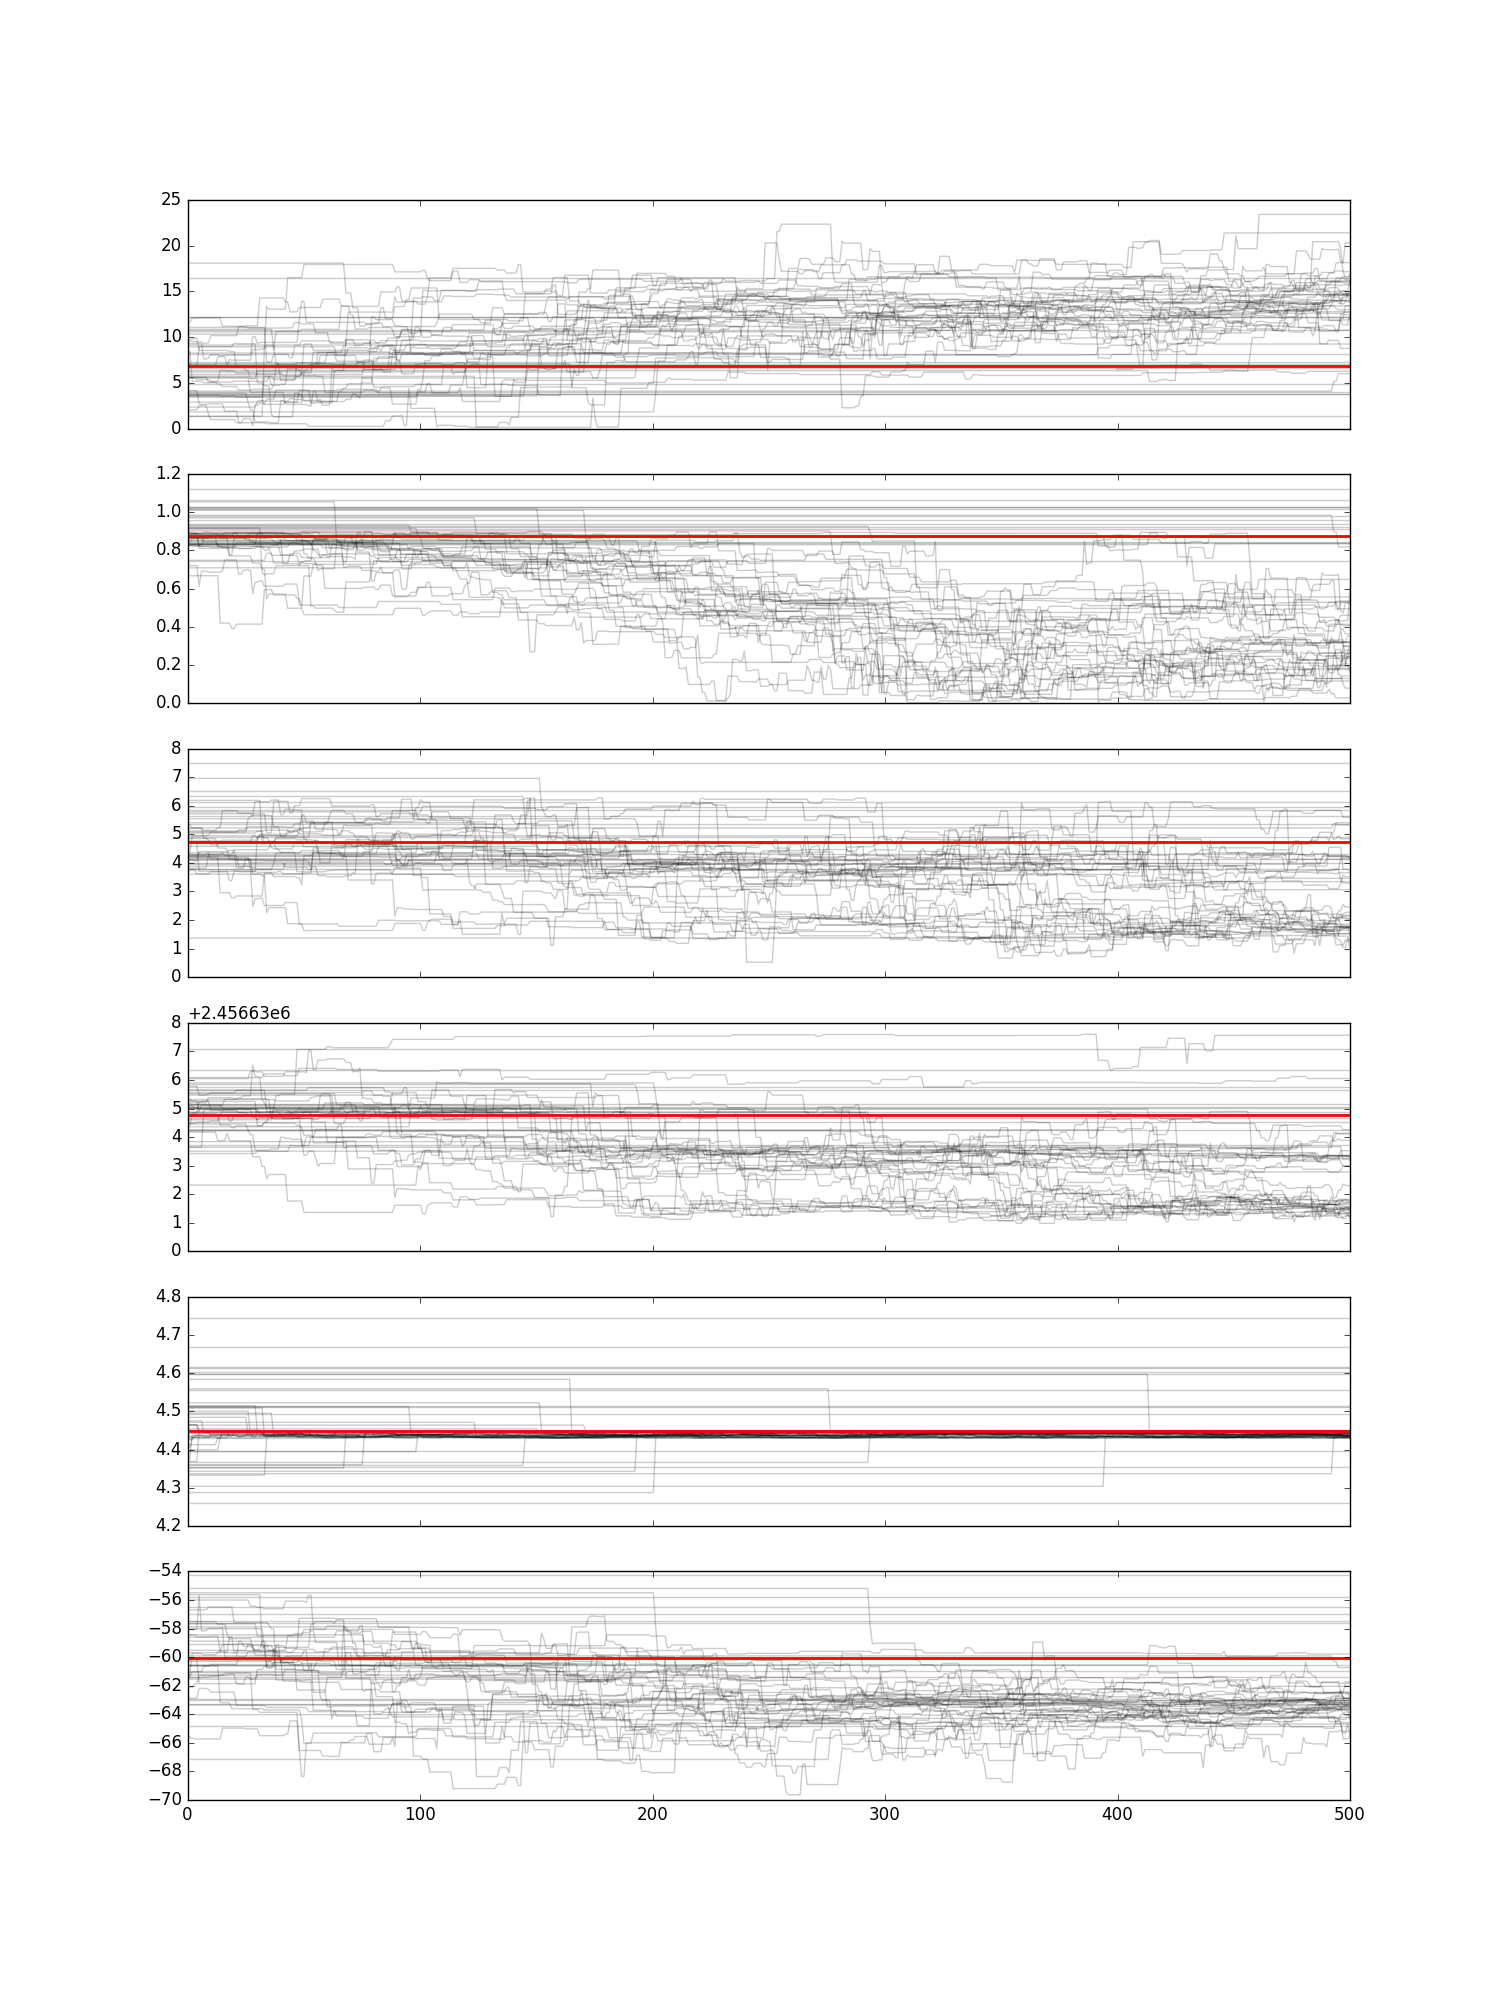
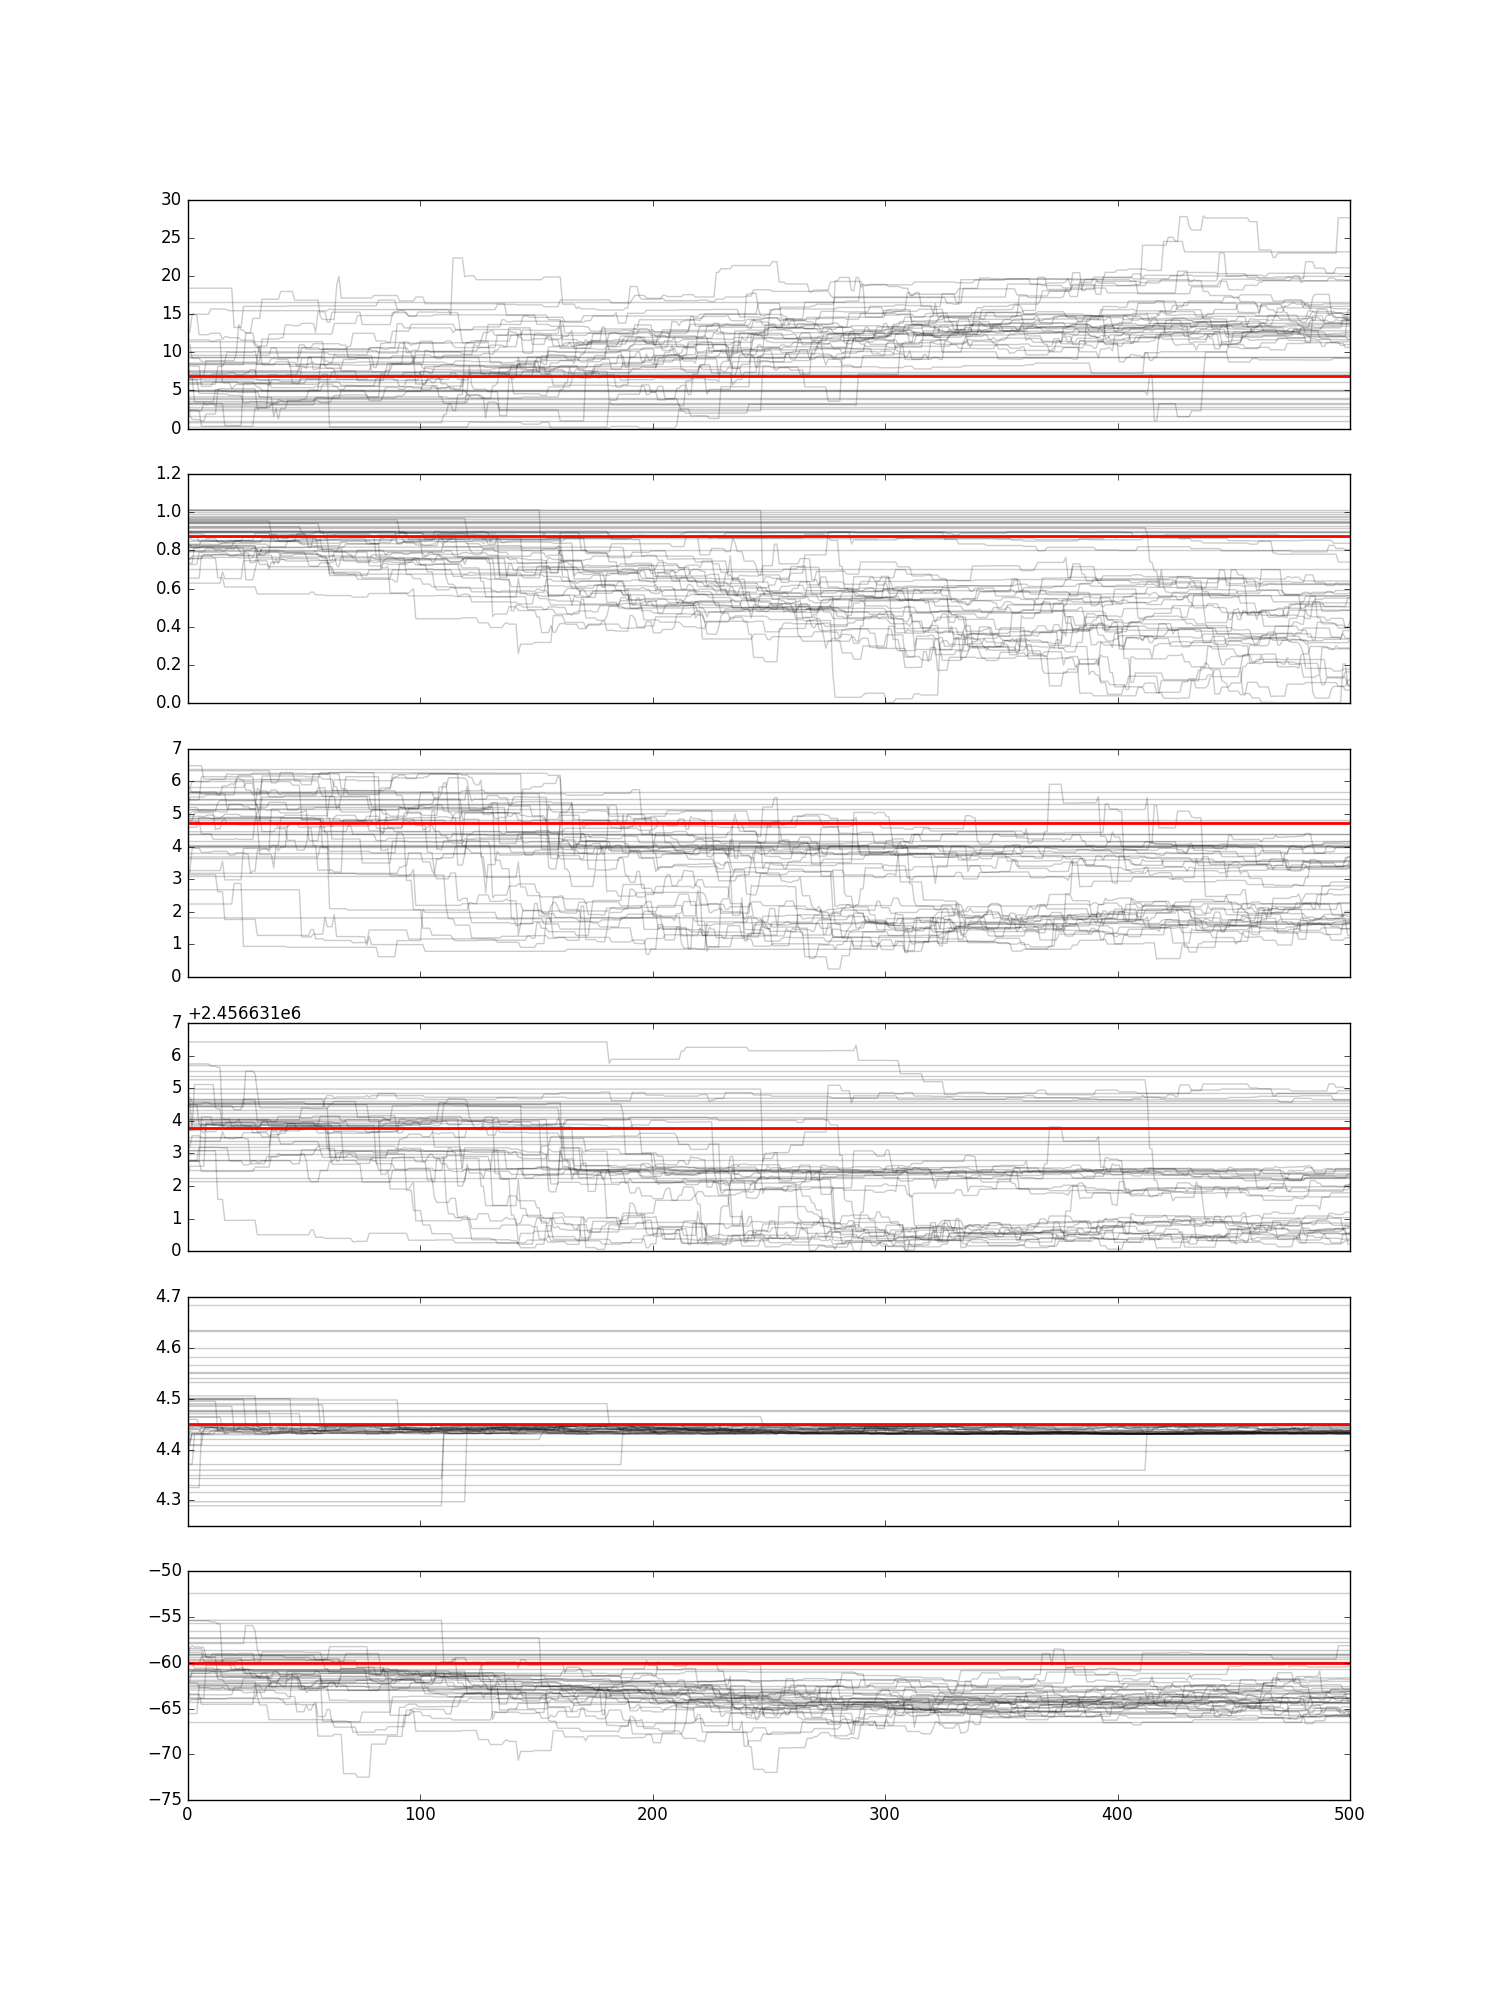
alteredRV fnctns moved inside initialGuess fnctns
line importing alteredRV or alteredNoERV from functions.py can be deleted from all code using up-to-date functions.py

alteredRV functions were only called by other functions

diff --git a/Summer Progress Summary.py b/Summer Progress Summary.py
@@ -1,3 +1,16 @@
+
+# coding: utf-8
+
+# # Summary of Progress in Searching for Orbital Parameters ($K,\,e,\,\omega,\,T,\,P,\,\gamma$) from Radial Velocities
+# 
+# 
+# ## Finding a mass ratio and constraining the period.
+# 
+# 
+# First, after the import and definition of a few packages, functions, and variables, the mass ratio is found. Periodograms and data windows are then calculated, and plots are created to aid in interpretation. DQ Tau is a 'well behaved' system with many visits, and shows a clear peak at a period of about 15.8 days, even after the subtraction of the values of the data window. The data appear periodic when phased to this period, and the mass ratio appears fairly well defined.
+
+# In[11]:
+
 #import-libraries-and-data---------------------------------------------------------------------------------------#
 import time
 import emcee
@@ -6,7 +19,7 @@ import numpy as np
 import functions as f
 from scipy import stats
 from matplotlib import pyplot as plt
-filename     = 'Systems/2M03450783+3102335/4586_2M03450783+3102335_rvs.tbl'
+filename     = 'Systems/DQ Tau/DQ Tau.tbl'
 system       = np.genfromtxt(filename, skip_header=1, usecols=(0, 1, 2))
 
 #define-variables------------------------------------------------------------------------------------------------#
@@ -14,8 +27,8 @@ system       = np.genfromtxt(filename, skip_header=1, usecols=(0, 1, 2))
 JD, RVp, RVs = [datum[0] for datum in system], [datum[1] for datum in system], [datum[2] for datum in system]
 JDp, JDs     = JD, JD
 samples      = 1000
-max_period   = 9
-power_cutoff = 0.7
+max_period   = 20
+power_cutoff = 0.25
 ndim, nwalkers, nsteps = 6, 50, 500
 
 #define-functions------------------------------------------------------------------------------------------------#
@@ -34,20 +47,20 @@ initialGuessNoE= f.initialGuessNoE
 
 #now-do-things!--------------------------------------------------------------------------------------------------#
 
-#plot Wilkinson plot (mass ratio)
+#Secondary v Primary plot (mass ratio)
 mass_ratio, intercept, r_squared, standard_error, slope_error = massRatio(RVs,RVp, system)
 fig = plt.figure(figsize=(5,5))
 ax = plt.subplot(111)
 ax.plot(RVs, RVp, 'k.')
+ax.set_title('Correlation of Secondary and Primary RVs')
 x, y = np.array([np.nanmin(RVs), np.nanmax(RVs)]),-mass_ratio*np.array([np.nanmin(RVs), 
                                                                         np.nanmax(RVs)])+intercept
 ax.plot(x, y)
 ax.set_ylabel('Primary Velocity', size='15')
 ax.set_xlabel('Secondary Velocity', size='15')
-plt.savefig(filename + ' mass ratio.png')
 print('mass ratio is ', mass_ratio, "+/-", standard_error)
 
-#check for invalid values
+#screen for invalid values
 JDp, RVp = adjustment(JD, RVp)
 JDs, RVs = adjustment(JD, RVs)
 
@@ -77,8 +90,8 @@ ax6.set_xlabel('Period (days)', size='15')
 ax2.set_ylabel('Normalized Lomb-Scargle Power', size='20')
 fig.set_figheight(10)
 fig.set_figwidth(15)
-plt.savefig(filename + ' periodogram.png')
-print('Periodogram peaks above a power of 0.7:', maxima(power_cutoff, x, y, y2))
+#plt.savefig(filename + ' periodogram.pdf')
+print('Periodogram peaks above a power of 0.25:', maxima(power_cutoff, x, y, y2))
 
 #plot periodogram - data window
 fig = plt.figure(figsize=(8,3))
@@ -87,25 +100,35 @@ ax.plot(x, y*y2, 'b', alpha = 0.5)
 ax.plot(x, y3*y4, 'r', alpha = 0.5)
 ax.plot(x, y*y2-y3*y4, 'k', alpha = 1)
 ax.set_ylim(0,1)
-ax.set_title('')
+ax.set_title('Periodogram Power - Data Window Power')
 
 #plot phased RVs
 fig = plt.figure(figsize=(8,3))
 ax = plt.subplot(111)
-ax.plot(phases(maxima(power_cutoff, x, y, y2)[-1], JDp), RVp, 'k.')
-ax.plot(phases(maxima(power_cutoff, x, y, y2)[-1], JDs), RVs, 'r.')
+ax.plot(phases(maxima(power_cutoff, x, y, y2)[0], JDp), RVp, 'k.')
+ax.plot(phases(maxima(power_cutoff, x, y, y2)[0], JDs), RVs, 'r.')
 ax.set_title('')
 ax.set_xlabel('Orbital Phase', size='15')
 ax.set_ylabel('Radial Velocity', size='20')
-plt.savefig(filename + ' RV-phase diagram.png')
+#plt.savefig(filename + ' RV-phase diagram.pdf')
 
-#-----------------------MCMC------------------------#
+
+# ## Taking a walk with a markov chain, getting results
+# 
+# 
+# Based on the plot above of data phased to our guess of the period, the parameters $\,K,\,P,$ and $\gamma$ are constrained to reasonable values, scipy's curve_fit() quickly finds an initial guess of the parameters, and these results are fed into the emcee ensemble sample, which takes over.
+# 
+# A corner plot shows the walker locations in various cross sections of the parameter space over over the entire walk, along with the results with uncertainties, and result histograms. Note that the period is not found to be 0, it is just smaller than the two decimal places shown. The second plot created shows the locations of the walkers over the entire walk, a red line for the initial guess of the parameter's value, and a blue line for the result found. Note that the walkers are intsantiated in a gaussian around the initial guess, and converge toward some result; when reporting final values one should truncate the beginning of the chain so only the converged walker steps are used in determining the results (in this case maybe the first 2000 steps, this varies between systems and with the arguments used in the MCMC).
+# 
+# The third plot shows a set of RV curves for the system using the result parameters, and the data phased to the result period. In this case we have a not obviously wrong set of results!
+
+# In[12]:
 
 t0 = time.time()
 
 #constrain parameters
-lower_bounds = [0, 0, 0, JD[0]+((JD[-1]-JD[0])/2)-0.75*4.42, 4.43, -75]
-upper_bounds = [100, 0.9, 2*np.pi, JD[0]+((JD[-1]-JD[0])/2)+0.75*4.42, 4.45, -55]
+lower_bounds = [0, 0, 0, JD[0]+((JD[-1]-JD[0])/2)-0.75*15.8, 15.7, 10]
+upper_bounds = [100, 0.9, 2*np.pi, JD[0]+((JD[-1]-JD[0])/2)+0.75*15.8, 15.9, 35]
 
 initial_guess = initialGuess(lower_bounds, upper_bounds, JDp, RVp)
 
@@ -129,7 +152,7 @@ position = [initial_guess + 0.1*np.random.randn(ndim) for i in range(nwalkers)]
 
 #walkers distributed in gaussian ball around most likely parameter values
 for i in range(0, nwalkers-1):
-    position[i][0] = initial_guess[0] + 5  *np.random.randn(1) #K
+    position[i][0] = initial_guess[0] + 2.5*np.random.randn(1) #K
     position[i][1] = initial_guess[1] + 0.1*np.random.randn(1) #e
     position[i][2] = initial_guess[2] + 1  *np.random.randn(1) #w
     position[i][3] = initial_guess[3] +     np.random.randn(1) #T
@@ -153,7 +176,7 @@ fig = corner.corner(samples, labels=["$K$", "$e$", "$\omega$", "$T$", "$P$", "$\
                              [lower_bounds[3], upper_bounds[3]], [lower_bounds[4], upper_bounds[4]],
                              [lower_bounds[5], upper_bounds[5]]],
                     quantiles=[0.16, 0.5, 0.84], show_titles=True, title_kwargs={"fontsize": 18})
-fig.savefig(filename + "parameter_results.png")
+#fig.savefig("parameter_results.png")
 
 #create the walkers plot
 fig, ax = plt.subplots(ndim, 1, sharex='col')
@@ -161,9 +184,10 @@ for i in range(ndim):
     for j in range(len(sampler.chain[:, 0, i])):
         ax[i].plot(np.linspace(0, nsteps, num=nsteps), sampler.chain[j, :, i], 'k', alpha=0.2)
     ax[i].plot(np.linspace(0, nsteps, num=nsteps) , np.ones(nsteps)*initial_guess[i], 'r', lw=2)
+    ax[i].plot(np.linspace(0, nsteps, num=nsteps) , np.ones(nsteps)*results[i][0], 'b', lw=2)
 fig.set_figheight(20)
 fig.set_figwidth(15)
-plt.savefig(filename + 'walk_results.png')
+#plt.savefig('walk_results.png')
 
 #create the curves plot
 x = np.linspace(0, 15.8, num=nsteps)
@@ -182,7 +206,7 @@ ax.plot(x, np.ones(len(x))*results[5][0], 'k' , label='Systemic Velocity')
 ax.plot(phases(results[4][0], JDp), RVp, 'bs', label='Primary RV Data') #data phased to result period
 ax.plot(phases(results[4][0], JDs), RVs, 'rs', label='Secondary RV data')
 ax.set_xlim([0,1])
-plt.savefig(filename + 'curve_results.png')
+#plt.savefig('curve_results.png')
 
 print('Results:')
 for i in range(len(initial_guess)):
@@ -191,7 +215,16 @@ t = time.time()
 print('Completed in ', int((t-t0)/60), ' minutes and ', int(((t-t0)/60-int((t-t0)/60))*60), 'seconds.')
 
 
-#-------------circular---MCMC---------------#
+# ## For a non-eccentric system...
+# 
+# 
+# If $e$ is sufficiently low (usually < 0.1), $\omega$ and $T$ become a degenerate pair, i.e. every value of $\omega$ has a corresponding value of $T$ which results in a good fit. This becomes apparent in the parameter histograms of the corner plot, and the walker plot. The walkers search the entire range allowed with no preference toward a particular value.
+# 
+# This is bad.
+# 
+# For those cases I've written a fitter which fits curves for an assumed-to-be circualr orbit. The output is essentially identical to the cell above, but with only four parameters, $K,\,T,\,P,\,\gamma$. As shown by the plots, it's obviously not a good fit for this system.
+
+# In[13]:
 
 #no e MCMC
 t0 = time.time()
@@ -242,21 +275,28 @@ fig = corner.corner(samples, labels=["$K$", "$T$", "$P$", "$\gamma$"],
                     extents=[[lower_bounds[0], upper_bounds[0]], [lower_bounds[1],upper_bounds[1]],
                              [lower_bounds[2], upper_bounds[2]], [lower_bounds[3], upper_bounds[3]]],
                     quantiles=[0.16, 0.5, 0.84], show_titles=True, title_kwargs={"fontsize": 18})
-plt.savefig(filename + 'no e parameter_results.png')
+#plt.savefig('parameter_results.png')
 
 #create the walkers plot
 fig, ax = plt.subplots(ndim, 1, sharex='col')
 for i in range(ndim):
     for j in range(len(sampler.chain[:, 0, i])):
         ax[i].plot(np.linspace(0, nsteps, num=nsteps), sampler.chain[j, :, i], 'k', alpha=0.2)
-    ax[i].plot(np.linspace(0, nsteps, num=nsteps) , np.ones(nsteps)*initial_guess[i], 'r')
+    ax[i].plot(np.linspace(0, nsteps, num=nsteps) , np.ones(nsteps)*initial_guess[i], 'r', lw=2)
+    ax[i].plot(np.linspace(0, nsteps, num=nsteps) , np.ones(nsteps)*results[i][0], 'b', lw=2)
 fig.set_figheight(20)
 fig.set_figwidth(15)
-plt.savefig(filename + 'no e walk_results.png')
+#plt.savefig('walk_results.png')
 
 #create the curves plot
 x = np.linspace(0, 15.8, num=nsteps)
 fig, ax = plt.figure(figsize=(15,8)), plt.subplot(111)
+#commented out section shows a sampling of curves from the walk
+#for K, e, w, T, P, y in samples[np.random.randint(len(samples), size=250)]:
+#    parameters = K, e, w, T, P, y
+#    primary, secondary = RV(x, mass_ratio, parameters)
+#    ax.plot(x/parameters[4], primary, 'c', label='Potential Primary Curves', alpha=0.2)
+#    ax.plot(x/parameters[4], secondary, 'm', label='Potential Secondary Curves', alpha=0.2)
 primary, secondary = RV(x, mass_ratio, [results[0][0], results[1][0], results[2][0], results[3][0]])
 ax.plot(x/results[2][0], primary, 'b', lw=2)
 ax.plot(x/results[2][0], secondary, 'r', lw=2)
@@ -264,10 +304,15 @@ ax.plot(x, np.ones(len(x))*results[3][0], 'k' , label='Systemic Velocity')
 ax.plot(phases(results[2][0], JDp), RVp, 'bs', label='Primary RV Data') #data phased to result period
 ax.plot(phases(results[2][0], JDs), RVs, 'rs', label='Secondary RV data')
 ax.set_xlim([0,1])
-plt.savefig(filename + 'no e curve_results.png')
+#plt.savefig('curve_results.png')
 
 print('Results:')
 for i in range(len(initial_guess)):
     print(results[i][0], '+',results[i][1], '-',results[i][2])
 t = time.time()
 print('Completed in ', int((t-t0)/60), ' minutes and ', int(((t-t0)/60-int((t-t0)/60))*60), 'seconds.')
+
+
+# ### Acknowledgement:
+# 
+# This implementation of the emcee ensemble sampler for the wouldn't be possible without the help of Dan Foreman-Mackey's usage example at: http://dan.iel.fm/emcee/current/user/line/

diff --git a/functions.py b/functions.py
@@ -4,28 +4,6 @@ from matplotlib import pyplot as plt
 from scipy.optimize import curve_fit
 from scipy.signal import lombscargle
 
-
-def alteredRV(x, K, e, w, T, P, y): #function generates RV values plot from given parameters
-    check = 1
-    M = (2*np.pi/P)*(x-T) #Mean Anomaly is a function of time
-    E1 = M + e*np.sin(M) + ((e**2)*np.sin(2*M)/2) #Eccentric Anomaly is a function of Mean Anomaly
-    while True: #iteratively refines estimate of E1 from initial estimate
-        E0 = E1
-        M0 = E0 - e*np.sin(E0)
-        E1 = E0 +(M-M0)/(1-e*np.cos(E0))
-        if np.amax(E1-E0) < 1e-9 or check-np.amax(E1-E0) == 0:
-            break
-        else:
-            check = np.amax(E1-E0)
-    nu = 2*np.arctan(np.sqrt((1 + e)/(1 - e))*np.tan(E1/2)) #True Anomaly is a function of Eccentric anomaly
-    p = ((K)*(np.cos(nu+w) + (e*np.cos(w)))+y)
-    return p
-
-def alteredNoERV(x, K, T, P, y): #function generates RV values plot from given parameters
-    nu = 2*np.arctan(np.tan((2*np.pi/P)*(x-T)/2))
-    p = K*np.cos(nu)+y
-    return p
-
 #function generates RV values from given parameters
 def RV(x, mass_ratio, parameters):
     #if orbit is assumed circular (4 elements passed) add zeroes for e and while
@@ -141,10 +119,29 @@ def maxima(cutoff, x, y, y2):
 
 #provides starting point for the MCMC
 def initialGuess(lower, upper, JDp, RVp):
+    def alteredRV(x, K, e, w, T, P, y): #function generates RV values plot from given parameters
+        check = 1
+        M = (2*np.pi/P)*(x-T) #Mean Anomaly is a function of time
+        E1 = M + e*np.sin(M) + ((e**2)*np.sin(2*M)/2) #Eccentric Anomaly is a function of Mean Anomaly
+        while True: #iteratively refines estimate of E1 from initial estimate
+            E0 = E1
+            M0 = E0 - e*np.sin(E0)
+            E1 = E0 +(M-M0)/(1-e*np.cos(E0))
+            if np.amax(E1-E0) < 1e-9 or check-np.amax(E1-E0) == 0:
+                break
+            else:
+                check = np.amax(E1-E0)
+        nu = 2*np.arctan(np.sqrt((1 + e)/(1 - e))*np.tan(E1/2)) #True Anomaly is a function of Eccentric anomaly
+        p = ((K)*(np.cos(nu+w) + (e*np.cos(w)))+y)
+        return p
     return curve_fit(alteredRV, JDp, np.asarray(RVp), bounds=(lower, upper))[0]
 
 #provides starting point for the MCMC, with circular orbit
 def initialGuessNoE(lower, upper, JDp, RVp):
+    def alteredNoERV(x, K, T, P, y): #function generates RV values plot from given parameters
+        nu = 2*np.arctan(np.tan((2*np.pi/P)*(x-T)/2))
+        p = K*np.cos(nu)+y
+        return p
     return curve_fit(alteredNoERV, JDp, np.asarray(RVp), bounds=(lower, upper))[0]
 
 #function calculates and returns the residuals of a particular fit w.r.t. the data

diff --git a/Fake data & test.py b/Fake data & test.py
@@ -19,10 +19,7 @@ adjustment     = f.adjustment
 RV             = f.RV
 residuals      = f.residuals
 constraints    = f.constraints
-constraintsNoE = f.constraintsNoE
-alteredRV      = f.alteredRV
 initialGuess   = f.initialGuess
-alteredNoERV   = f.alteredNoERV
 initialGuessNoE= f.initialGuessNoE
 
 #function calculates mass ratio and error of both the regression and the slope parameter
